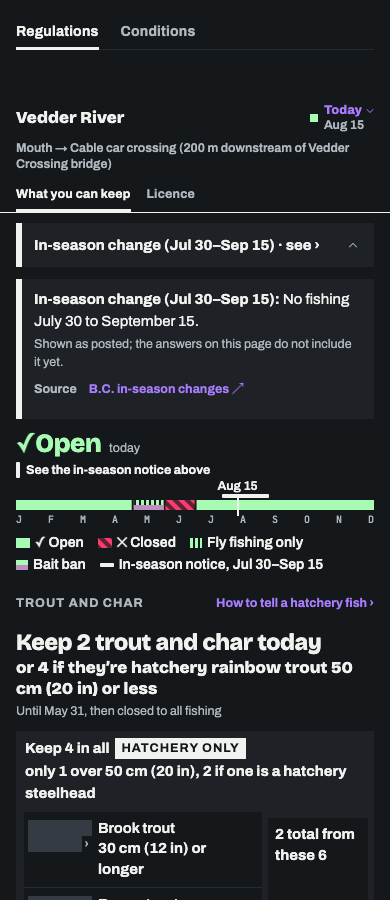
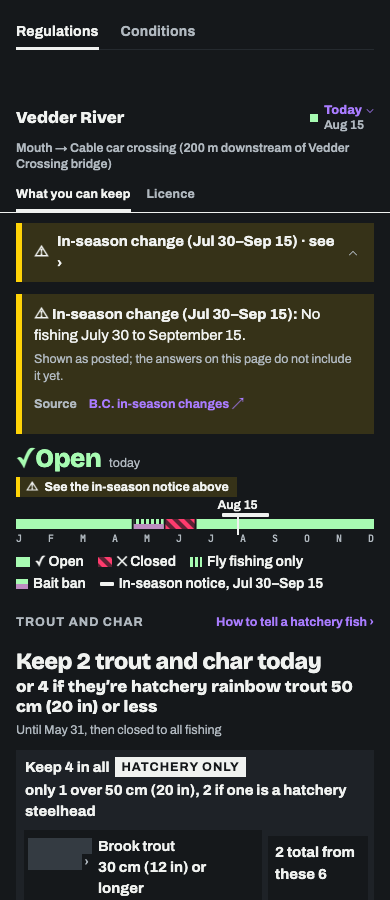
docs(T1167): the owner's three picks recorded; the inside pictures in the warning amber

Changed region(s): [[0.0308, 0.2489, 0.9846, 1.0]]

diff --git a/handoff/PLAN/app-integration/tickets/T1167-in-season-banner-window-and-louder-banner.md b/handoff/PLAN/app-integration/tickets/T1167-in-season-banner-window-and-louder-banner.md
@@ -1,10 +1,10 @@
 # T1167 — In-season notices: a dated notice's banner shows from two weeks before to its last day; the banner is louder; the answer stays the book's
 
-Status: IN REVIEW — owner: see ## Owner (built, code 3a58e77c0 3dc579337; pictures in T1167-shots/: before / inside / after, light and dark)
+Status: IN REVIEW — owner: see ## Owner (built, code 3a58e77c0 3dc579337 01eefbe2a; pictures in T1167-shots/: before / inside / after, light and dark)
 
 | id | title | status | commits | what's left |
 |---|---|---|---|---|
-| T1167 | In-season notices: a dated notice's banner shows from two weeks before to its last day; the banner is louder; the answer stays the book's | IN REVIEW | 3a58e77c0 3dc579337 | owner: look at T1167-shots/ (before / inside / after, light and dark); then the PR and an independent review; ships in the first patch after 0.10.0 |
+| T1167 | In-season notices: a dated notice's banner shows from two weeks before to its last day; the banner is louder; the answer stays the book's | IN REVIEW | 3a58e77c0 3dc579337 01eefbe2a | owner: look at T1167-shots/ (before / inside / after, light and dark); then the PR and an independent review; ships in the first patch after 0.10.0 |
 
 Source: T1157's finding and the owner's answers, 2026-11-25 night. Seven provincial in-season closures of
 July 30-Sept 15, 2026 (Salmon River 3-26, Bessette Creek 8-22, Granby River and its tributaries 8-15 from noon to
@@ -31,7 +31,7 @@ Tests for the three states and for an unreadable range, each failing without the
 show nothing today. Severity: medium (an angler could fish a closed water under an "open" answer during a
 window). Model: Sonnet (Opus for the date reading). Size: S–M. Owner: the look.
 
-## Built (3a58e77c0, review fixes 3dc579337)
+## Built (3a58e77c0, review fixes 3dc579337, the warning look 01eefbe2a)
 
 - The rule lives in ONE place per language, pinned by one case file: core `app/packages/core/src/inseasonWindow.ts`
   (`inSeasonDating` / `inSeasonSpan` / `inSeasonOn`; the feeds worker reads it too) and
@@ -43,6 +43,10 @@ window). Model: Sonnet (Opus for the date reading). Size: S–M. Owner: the look
   or a day with its month after it as a range's end. Unreadable (no whole start and end, a same-month range ending
   before it starts, a day the month lacks, no effective day, a range not opening on it) or dates read as no one
   range: shown as undated, told to the owner ONCE per set by the feeds worker (`undatableEvent`); the app reports none.
+- Look (owner 2026-11-26): in force, the banner, its line and the pointer wear the page's warning amber as the
+  no-access block does (`palette.warning` bar, `palette.noAccessBand` ground, words ink: 15.5:1 light, 11.5:1 dark; the
+  bar 3.0:1 / 12.4:1 on the card, pinned in `theme.test.ts`) and the caveat titles' caution mark "⚠", hidden from a
+  screen reader; upcoming stays grey.
 - Words: before "Upcoming in-season change (Jul 30–Sep 15)" (inbox: "Upcoming", its range, never opening the bell by
   itself), inside "In-season change (Jul 30–Sep 15)" with "See the in-season notice above" on the game-fish strip's
   status line, or at the top of the Keep tab on a page with no strip (core `inSeasonKeepOf`); after: nothing. Year
@@ -53,4 +57,7 @@ window). Model: Sonnet (Opus for the date reading). Size: S–M. Owner: the look
 ## Owner
 
 - [x] 2026-11-25 — When a dated notice's banner shows → "2 weeks before to the end (Recommended)"; whether it turns the answer to closed → "Banner only, but louder" (2026-11-25)
+- [x] 2026-11-26 — How loud the banner is inside the window (A amber with a mark / B red / C grey as pictured) → "A: warning amber with a mark (Recommended)" (2026-11-26)
+- [x] 2026-11-26 — How the banner looks in the 14 days before (A grey, as pictured / B amber too) → "A: grey, as pictured (Recommended)" (2026-11-26)
+- [x] 2026-11-26 — A range that starts later than its effective day (A date it when it starts within N days / B never date these) → "B: never date these" (2026-11-26)
 - [ ] 2026-11-25 — Look at the three pictures of the louder banner (before, inside, after the window) when the lane has them.
